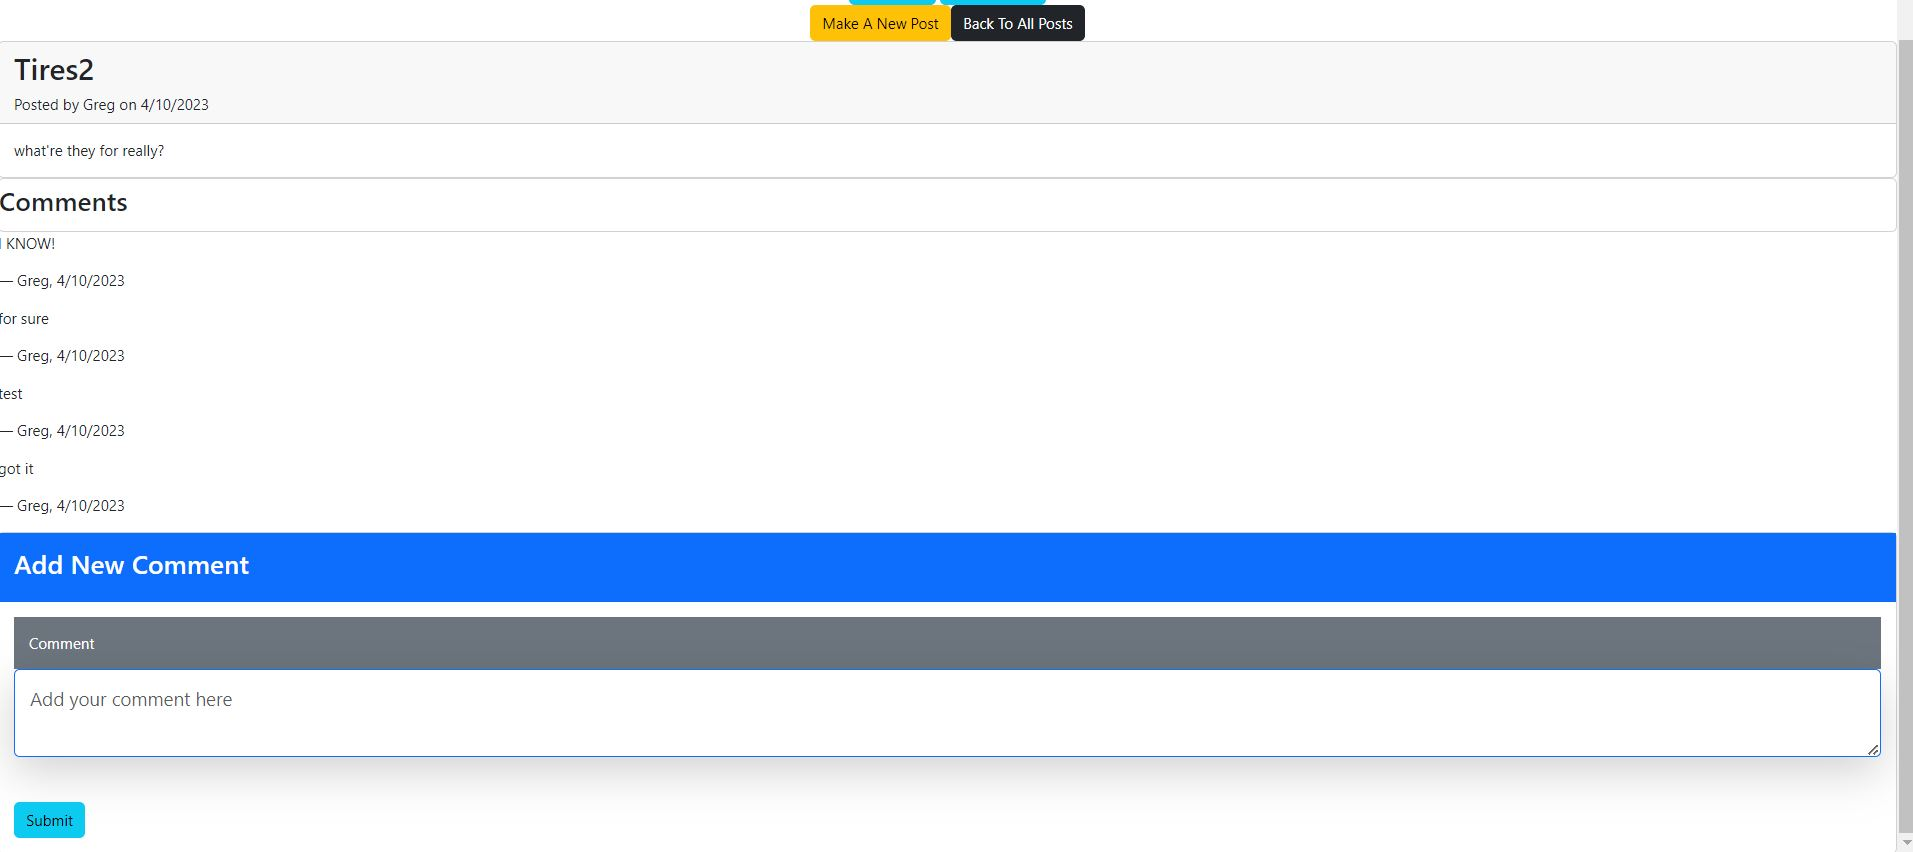
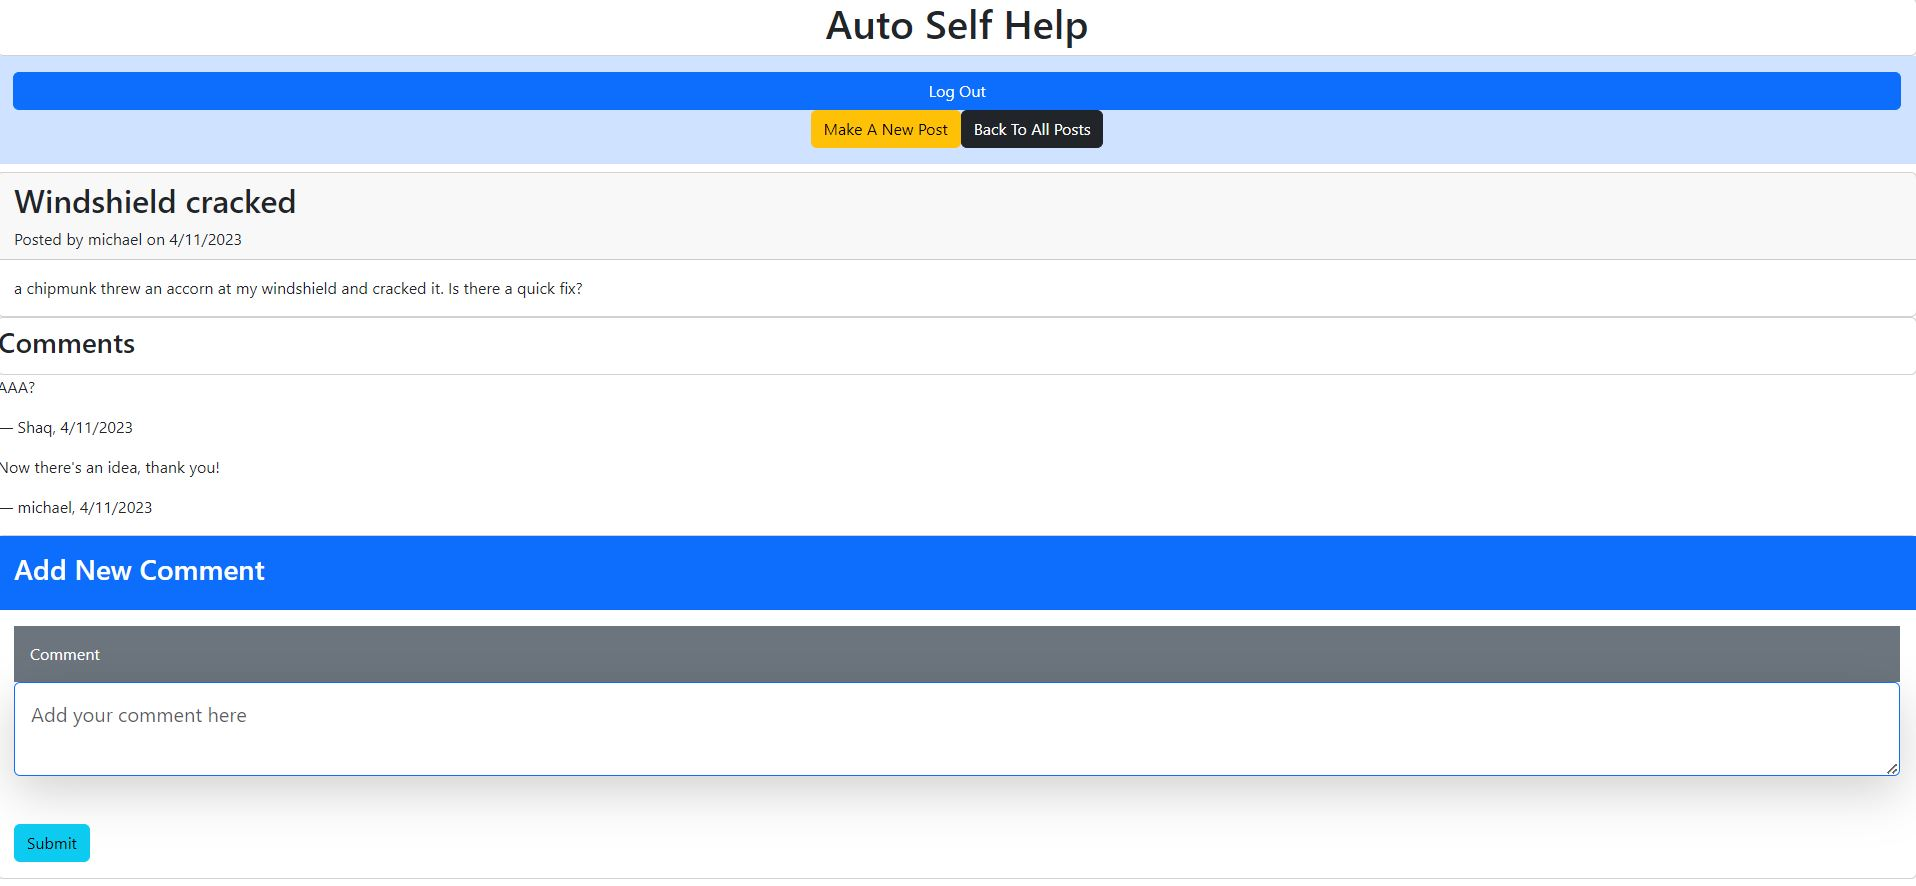
cleaning up un-used code, changing screen shot and adding deployed link

Changed region(s): [[0.0, 0.0, 1.0, 1.0]]

diff --git a/controllers/homepage.js b/controllers/homepage.js
@@ -1,7 +1,7 @@
 const router = require("express").Router();
 const { Post, Comment, User } = require("../models/");
 
-// get all posts for homepage
+
 router.get("/", async (req, res) => {
   try {
     const postData = await Post.findAll({
@@ -18,7 +18,7 @@ router.get("/", async (req, res) => {
   }
 });
 
-// get single post
+
 router.get("/post/:id", async (req, res) => {
   try {
     const postData = await Post.findByPk(req.params.id, {

diff --git a/server.js b/server.js
@@ -4,7 +4,6 @@ const session = require("express-session");
 const exphbs = require("express-handlebars");
 const routes = require("./controllers");
 const helpers = require("./utils/helpers");
-// const stars = require('stars-rating.css');
 // const bcrypt = require("bcrypt");
 const SequelizeStore = require("connect-session-sequelize")(session.Store);
 const sequelize = require("./config/connection");

diff --git a/controllers/api/userRoutes.js b/controllers/api/userRoutes.js
@@ -58,7 +58,6 @@ router.post("/login", async (req, res) => {
   } catch (err) {
     res.status(400).json(err);
   }
-  // res.send("success reached here");
 });
 
 router.post("/logout", (req, res) => {
@@ -77,7 +76,6 @@ router.get("/generate", (req, res) => {
     numbers: true,
   });
 
-  // 'uEyMTw32v9'
   console.log(genPassword);
   res.json(genPassword);
 });

diff --git a/controllers/api/index.js b/controllers/api/index.js
@@ -2,7 +2,7 @@ const router = require("express").Router();
 const userRoutes = require("./userRoutes");
 const postRoutes = require("./postRoutes");
 const commentRoutes = require("./commentsRoutes");
-// add uploads(images), comments
+
 
 router.use("/user", userRoutes);
 router.use("/posts", postRoutes);

diff --git a/models/post.js b/models/post.js
@@ -5,7 +5,7 @@ class Post extends Model {}
 
 Post.init(
   {
-    // POST NEEDS TO STORE: SUBJECT, DESCRIPTION, YEAR, MAKE, MODEL
+ 
     id: {
       type: DataTypes.INTEGER,
       allowNull: false,

diff --git a/README.md b/README.md
@@ -64,7 +64,7 @@ GIVEN a auto maintenance application
 
 ## Deployed-Application
 
-[Deployed Application]()
+[Deployed Application](https://agile-ocean-74686.herokuapp.com/)
 
 ## Screen-Shots
 
@@ -78,13 +78,3 @@ GIVEN a auto maintenance application
 
 ![Comments page screenshot](./images/comments.JPG)
 
-<!-- 
-viewing all posts as user
-new technology (password generator)
-other users viewing all posts
-deploy to heroku
-
-go over presentation
-
-**Comments page needs dashboard layout
- -->
